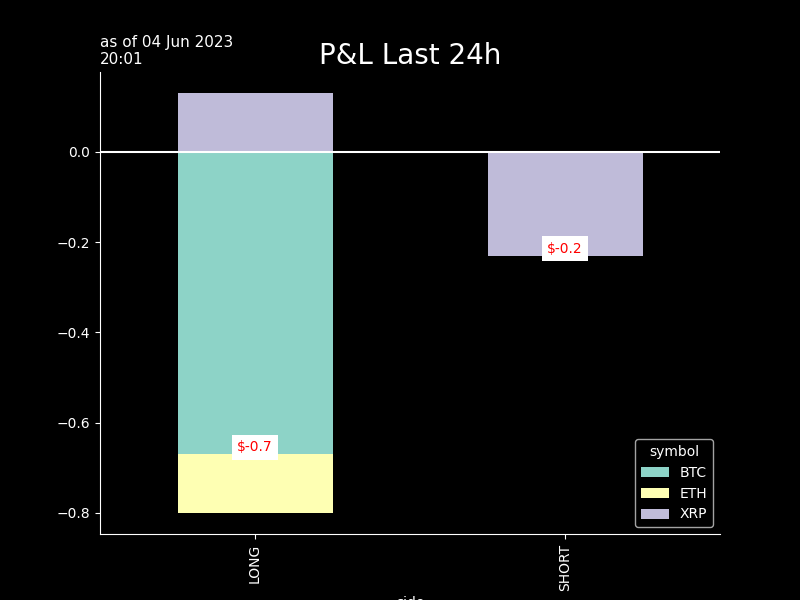
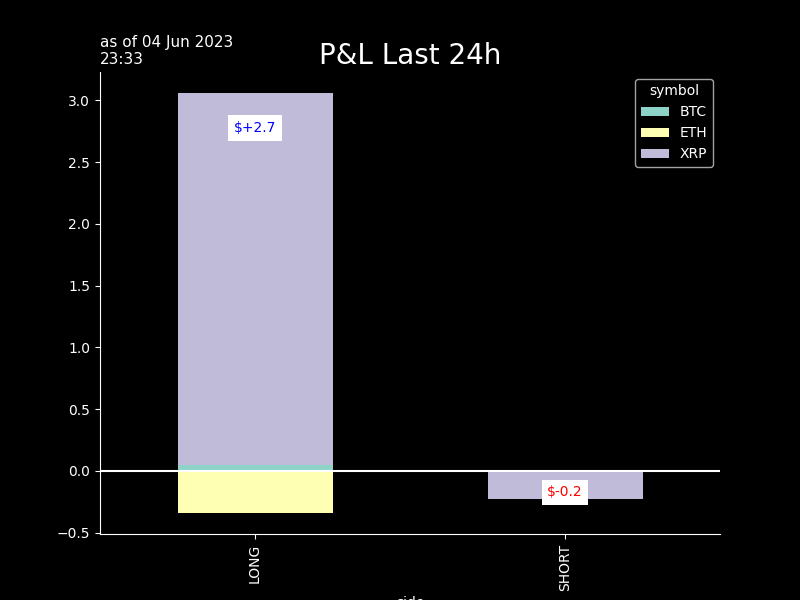
seb_commit

diff --git a/crypto/graphs/bt_trades_book.htmltrade_trades_book.html b/crypto/graphs/bt_trades_book.htmltrade_trades_book.html
@@ -38,54 +38,54 @@
   <tbody>
     <tr>
       <th>XRPUSDT</th>
-      <td>0.5346</td>
-      <td>2023-06-04 18:31:48</td>
-      <td>226.800</td>
-      <td>$121.2</td>
-      <td>$0.02</td>
-      <td>1.6</td>
-      <td>0.0</td>
-      <td>0.53495</td>
-      <td>2023-06-04 19:31</td>
-      <td>0.1</td>
-      <td>7.0</td>
-      <td>.5353</td>
-      <td>0.2</td>
-      <td>13.0</td>
-    </tr>
-    <tr>
-      <th>BTCUSDT</th>
-      <td>27188.4000</td>
-      <td>2023-06-04 18:33:20</td>
-      <td>0.006</td>
-      <td>$163.1</td>
+      <td>0.5412</td>
+      <td>2023-06-04 22:33:11</td>
+      <td>-306.400</td>
+      <td>$-165.8</td>
       <td>$0.03</td>
       <td>1.6</td>
-      <td>0.0</td>
-      <td>27179.95000</td>
-      <td>2023-06-04 19:31</td>
-      <td>-0.1</td>
-      <td>-3.0</td>
-      <td>27187.7</td>
+      <td>3.0</td>
+      <td>0.54175</td>
+      <td>2023-06-04 23:31</td>
+      <td>-0.2</td>
+      <td>-10.0</td>
+      <td>.5413</td>
       <td>-0.0</td>
-      <td>-0.0</td>
+      <td>-2.0</td>
     </tr>
     <tr>
       <th>ETHUSDT</th>
-      <td>1902.2000</td>
-      <td>2023-06-04 18:33:01</td>
-      <td>0.086</td>
-      <td>$163.6</td>
+      <td>1898.2500</td>
+      <td>2023-06-04 22:32:34</td>
+      <td>-0.086</td>
+      <td>$-163.2</td>
       <td>$0.03</td>
       <td>1.6</td>
-      <td>0.0</td>
-      <td>1901.24500</td>
-      <td>2023-06-04 19:31</td>
+      <td>-0.3</td>
+      <td>1900.52500</td>
+      <td>2023-06-04 23:31</td>
+      <td>-0.2</td>
+      <td>-12.0</td>
+      <td>1899.18</td>
       <td>-0.1</td>
       <td>-5.0</td>
-      <td>1901.94</td>
-      <td>-0.0</td>
-      <td>-1.0</td>
+    </tr>
+    <tr>
+      <th>BTCUSDT</th>
+      <td>27196.7000</td>
+      <td>2023-06-04 22:32:26</td>
+      <td>-0.006</td>
+      <td>$-163.2</td>
+      <td>$0.03</td>
+      <td>1.6</td>
+      <td>0.1</td>
+      <td>27227.95000</td>
+      <td>2023-06-04 23:31</td>
+      <td>-0.2</td>
+      <td>-12.0</td>
+      <td>27241.9</td>
+      <td>-0.3</td>
+      <td>-17.0</td>
     </tr>
   </tbody>
 </table>

diff --git a/crypto/graphs/bt_trades_pnlD_recap.htmltrade_trades_pnlD_recap.html b/crypto/graphs/bt_trades_pnlD_recap.htmltrade_trades_pnlD_recap.html
@@ -1,7 +1,7 @@
 <table border="1" class="dataframe">
   <thead>
     <tr style="text-align: right;">
-      <th>04 Jun 19:33</th>
+      <th>04 Jun 23:33</th>
       <th>realizedPnl</th>
       <th>PnLvsArrival</th>
       <th>PnLvsLast</th>
@@ -10,21 +10,21 @@
   <tbody>
     <tr>
       <th>in$</th>
-      <td>0.0</td>
-      <td>-0.1</td>
-      <td>0.1</td>
+      <td>2.7</td>
+      <td>-0.6</td>
+      <td>-0.4</td>
     </tr>
     <tr>
-      <th>in bp 447 traded</th>
-      <td>0 bp</td>
-      <td>-1 bp</td>
-      <td>3 bp</td>
+      <th>in bp 492 traded</th>
+      <td>55 bp</td>
+      <td>-11 bp</td>
+      <td>-8 bp</td>
     </tr>
     <tr>
-      <th>in bp 328 AUMs</th>
-      <td>0 bp</td>
-      <td>-2 bp</td>
-      <td>4 bp</td>
+      <th>in bp 330 AUMs</th>
+      <td>82 bp</td>
+      <td>-17 bp</td>
+      <td>-11 bp</td>
     </tr>
   </tbody>
 </table>

diff --git a/crypto/graphs/bt_trades_recap.htmltrade_trades_recap.html b/crypto/graphs/bt_trades_recap.htmltrade_trades_recap.html
@@ -9,32 +9,32 @@
   <tbody>
     <tr>
       <th>as of</th>
-      <td>04Jun 18:31&gt;&gt;18:33</td>
+      <td>04Jun 22:32&gt;&gt;22:33</td>
       <td>#trades: 3</td>
     </tr>
     <tr>
       <th>trade net</th>
-      <td>+448.0</td>
-      <td>+136.3%</td>
+      <td>-492.0</td>
+      <td>-148.7%</td>
     </tr>
     <tr>
       <th>trade gross</th>
-      <td>+448.0</td>
-      <td>+136.3%</td>
+      <td>+492.0</td>
+      <td>+148.7%</td>
     </tr>
     <tr>
       <th>BUY</th>
-      <td>+448.0</td>
-      <td>+136.3%</td>
-    </tr>
-    <tr>
-      <th>SELL</th>
       <td>+0.0</td>
       <td>+0.0%</td>
     </tr>
     <tr>
+      <th>SELL</th>
+      <td>-492.0</td>
+      <td>-148.7%</td>
+    </tr>
+    <tr>
       <th>fees</th>
-      <td>$ 0.072</td>
+      <td>$ 0.079</td>
       <td>1.6bp</td>
     </tr>
   </tbody>
